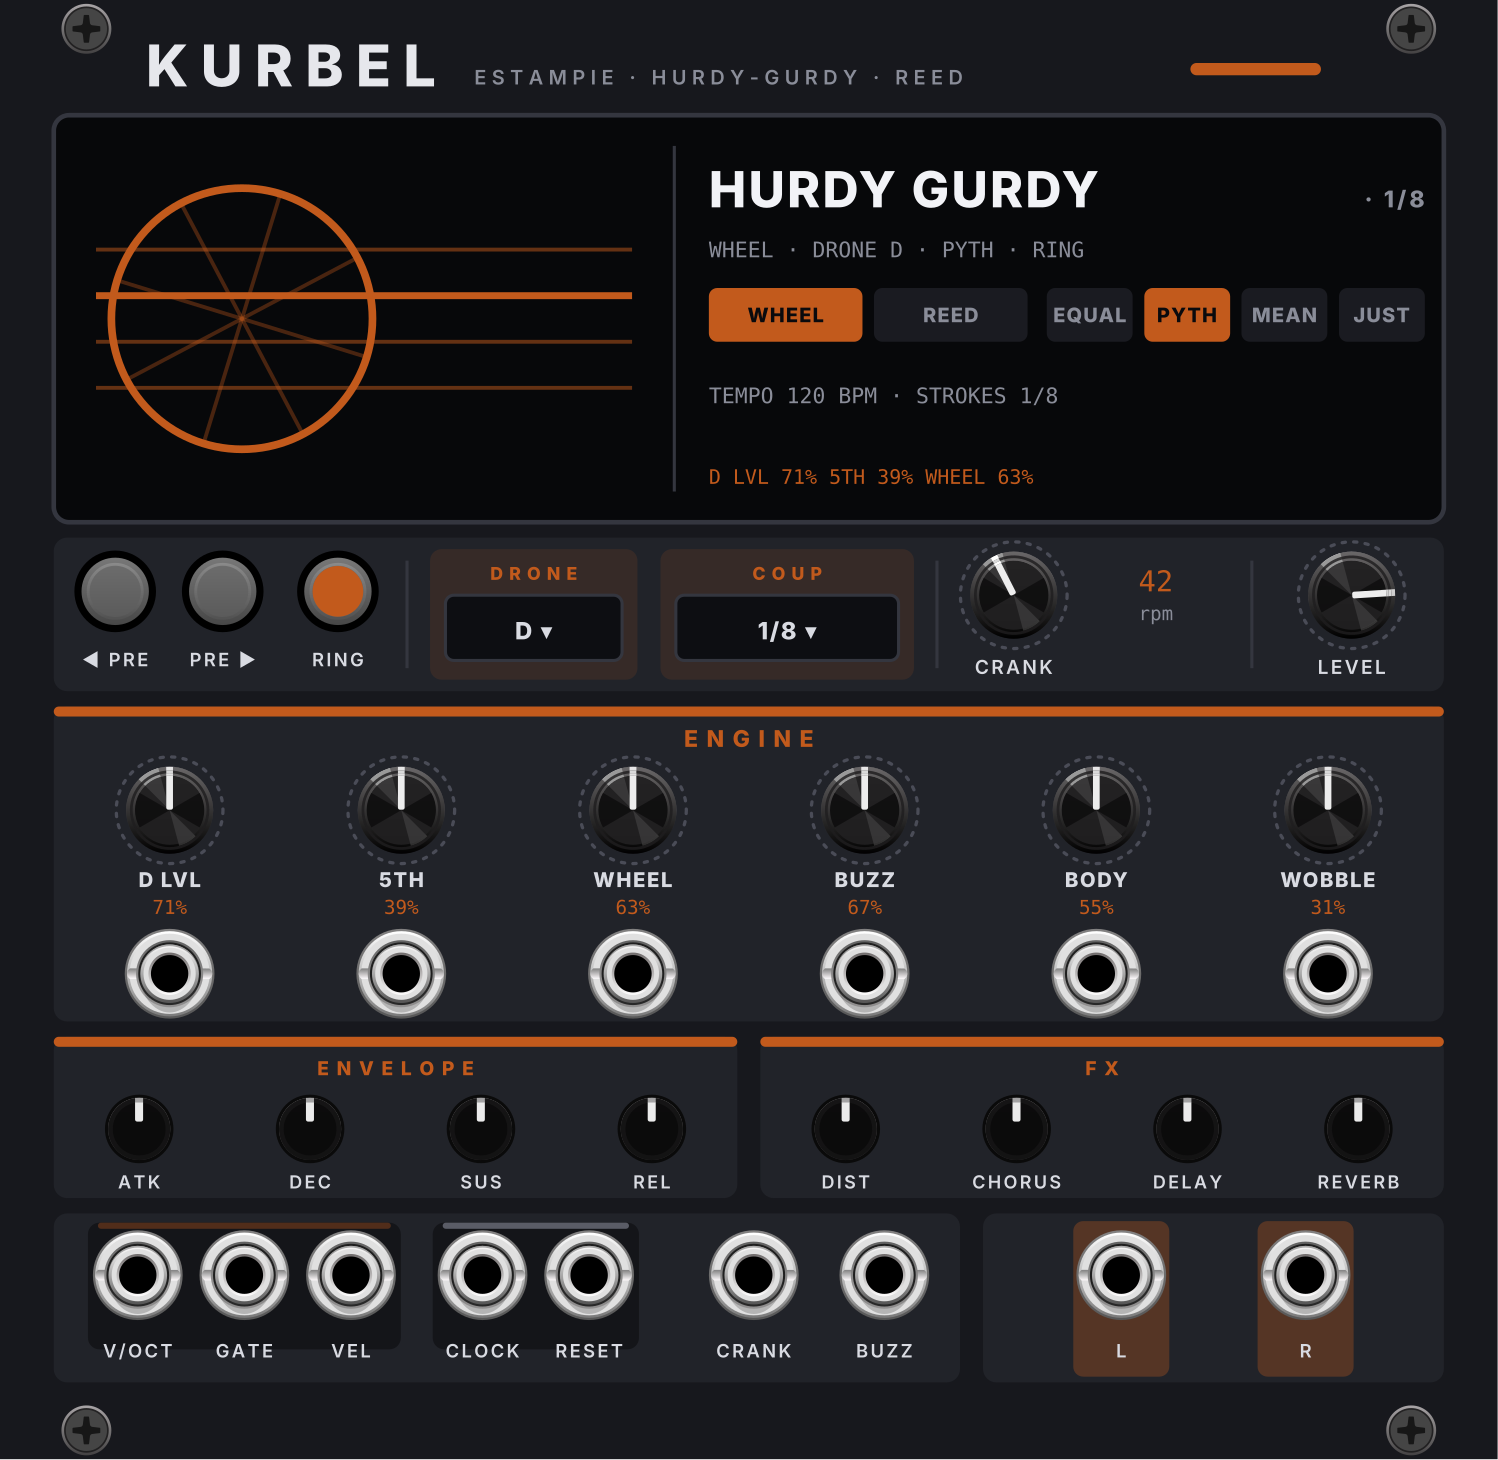
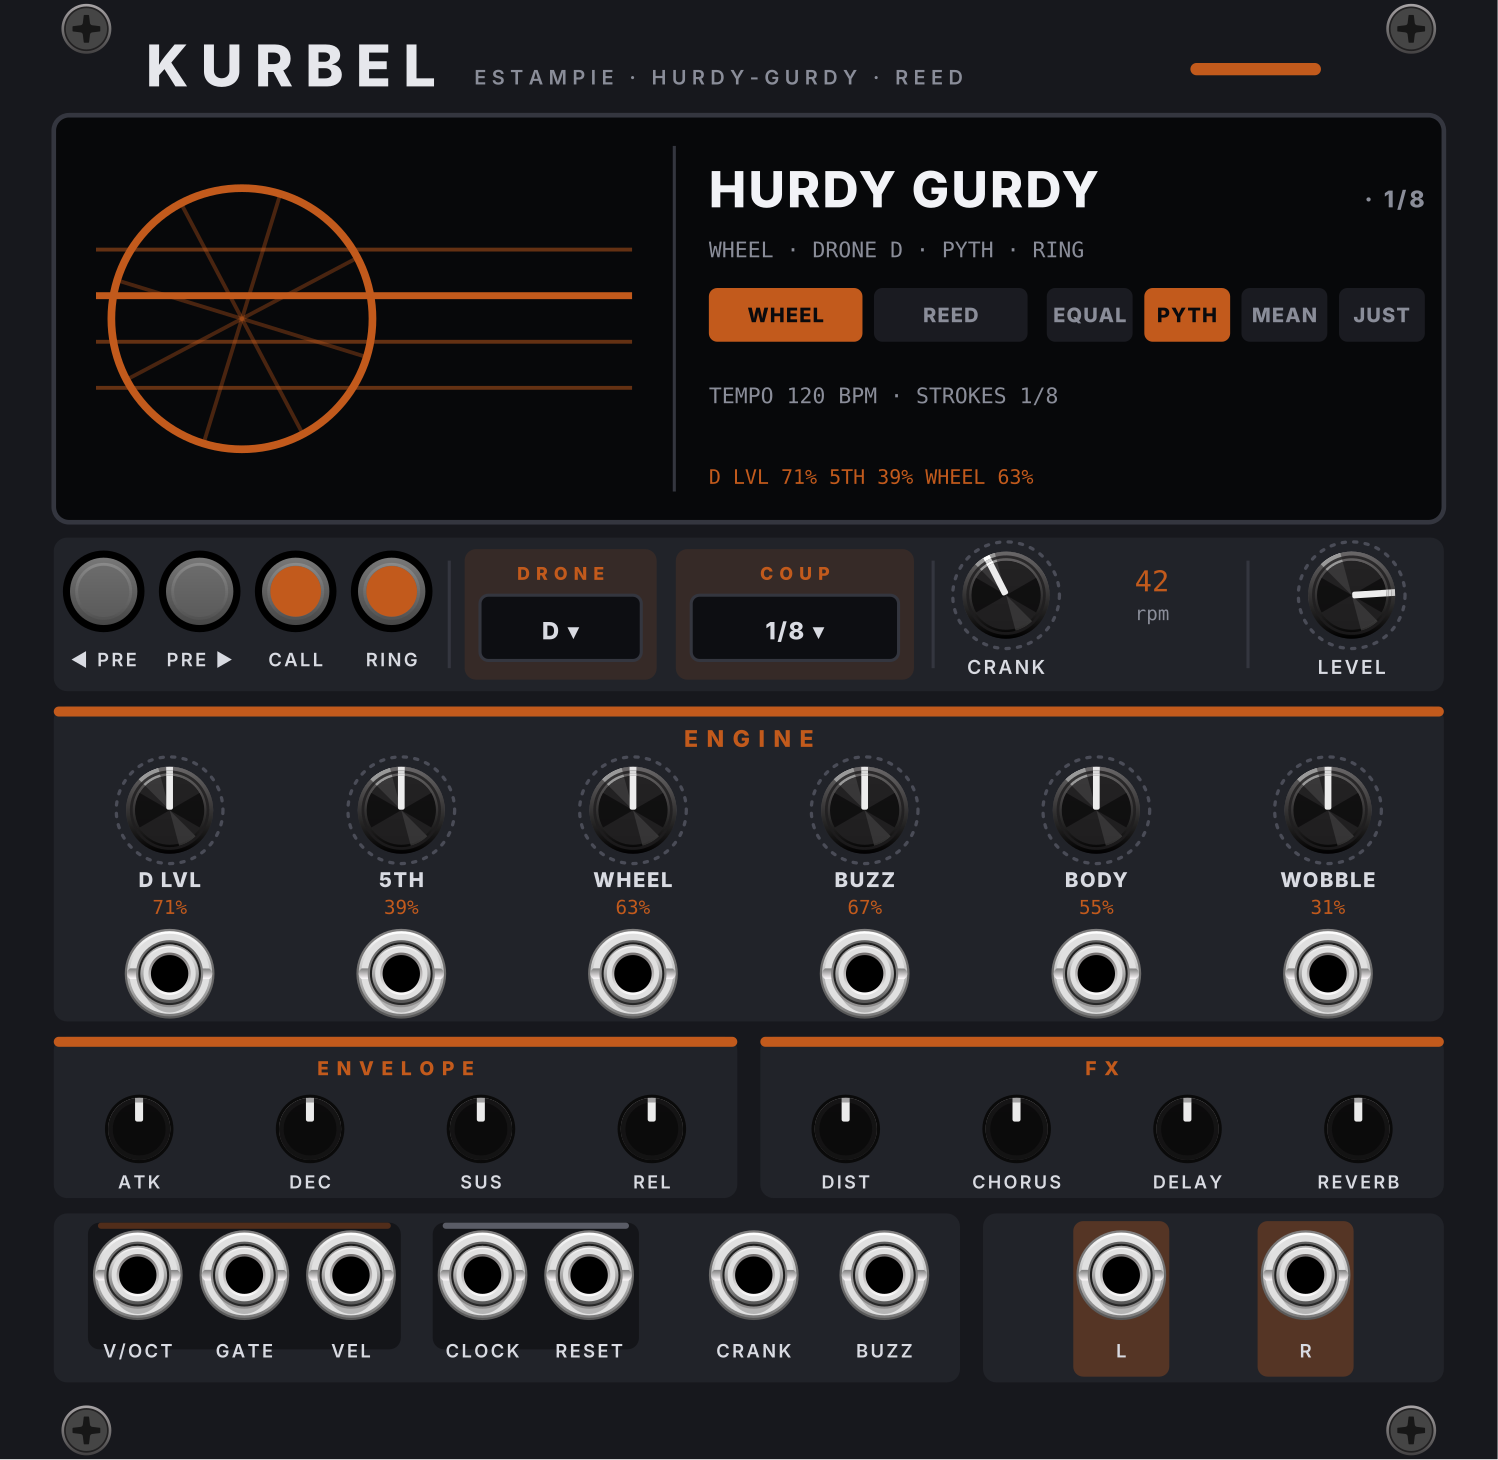
GENRA Test 2.2.1: KURBEL mit CALL, Kurbel ohne Gate standardmässig aus, Kurbel-Tempo
- CALL-Taster: spielt die Melodiesaite (V/OCT, ohne Kabel D4)
- Rechtsklick 'Crank plays without a gate' jetzt Standard aus
- 40 Klicks pro Umdrehung: 90 rpm = voller Bogendruck bei jedem WHL

Claude-Session: https://claude.ai/code/session_01ETAzGwBbFuDbGLy1yWbrpP

diff --git a/src/kurbel/Kurbel.cpp b/src/kurbel/Kurbel.cpp
@@ -25,7 +25,8 @@ static const char* COUP_NAMES[6] = {"HOLD", "1/4", "1/8", "1/8T", "1/16", "CRANK
 static const char* TEMP_NAMES[4] = {"EQUAL", "PYTH", "MEAN", "JUST"};
 static const char* CLOCK_MODES[4] = {"16ths (4 PPQN)", "8ths (2 PPQN)", "Quarters (1 PPQN)", "24 PPQN"};
 static const int CLOCK_PPQN[4] = {4, 2, 1, 24};
-static const float CLICKS_PER_REV = 20.f;                     // the FM-1's encoder: the crank's clicks per turn
+static const float CLICKS_PER_REV = 40.f;                     // the crank's clicks per turn: 90 rpm = 60 clicks/s, full
+                                                               // pressure at every WHL (GHOULBOX: full at 60 .. 12 clicks/s)
 static const float RPM_PER_VOLT = 24.f;                        // CRANK CV: 0..10 V = 0..240 rpm
 
 // ------------------------------------------------------------------------------------------------ the module
@@ -39,6 +40,7 @@ struct Kurbel : Module, follow::Host {
 		CRANK_PARAM,
 		RING_PARAM,
 		PREV_PARAM, NEXT_PARAM,
+		CALL_PARAM,
 		PARAMS_LEN
 	};
 	enum InputId {
@@ -47,8 +49,8 @@ struct Kurbel : Module, follow::Host {
 		INPUTS_LEN
 	};
 	enum OutputId { L_OUTPUT, R_OUTPUT, OUTPUTS_LEN };
-	enum LightId { RING_LIGHT, LIGHTS_LEN };
-	enum { BLOCK = 32 };
+	enum LightId { RING_LIGHT, CALL_LIGHT, LIGHTS_LEN };
+	enum { BLOCK = 32, CALL_NOTE = 62 };
 
 	KurbelCore core;
 	std::string status;
@@ -57,7 +59,7 @@ struct Kurbel : Module, follow::Host {
 	int preset = 0;
 	int wheelPreset = 0;                          // the last WHEEL sound (back to it from REED)
 	int clockMode = 0;
-	bool crankAlone = true;                       // COUP CRANK without a gate: turning the crank plays (drones + melody)
+	bool crankAlone = false;                      // (right-click, off by default) COUP CRANK without a gate: turning the crank plays (drones + melody)
 	bool fromPatch = false;
 	std::atomic<int> presetReq{-1};
 
@@ -78,7 +80,8 @@ struct Kurbel : Module, follow::Host {
 	jiant::Resampler src;
 	dsp::DoubleRingBuffer<dsp::Frame<2>, 2048> outBuf;
 	uint32_t framesSinceUi = 0;
-	bool gate = false;
+	bool gate = false;                            // a note sounds (the gate, CALL, or the crank alone)
+	bool gateIn = false;                          // the GATE input is high
 	int note = 60;
 	dsp::BooleanTrigger prevTrig, nextTrig;
 	dsp::SchmittTrigger clockTrig, resetTrig, buzzTrig;
@@ -117,6 +120,7 @@ struct Kurbel : Module, follow::Host {
 		configSwitch(RING_PARAM, 0.f, 1.f, 0.f, "Ring (the drones sound on through the rests)", {"Off", "On"});
 		configButton(PREV_PARAM, "Previous preset");
 		configButton(NEXT_PARAM, "Next preset");
+		configButton(CALL_PARAM, "Call (plays the melody string: V/OCT, or D4 without a cable)");
 		configInput(VOCT_INPUT, "V/Oct (the melody string)");
 		configInput(GATE_INPUT, "Gate");
 		configInput(VEL_INPUT, "Velocity (0..10 V)");
@@ -220,6 +224,7 @@ struct Kurbel : Module, follow::Host {
 	void onAdd(const AddEvent& e) override {
 		params[PREV_PARAM].setValue(0.f);
 		params[NEXT_PARAM].setValue(0.f);
+		params[CALL_PARAM].setValue(0.f);
 		powerOn();
 	}
 	void onRemove(const RemoveEvent& e) override { follow::gone(this); core.unload(); }
@@ -227,7 +232,7 @@ struct Kurbel : Module, follow::Host {
 		Module::onReset(e);
 		fromPatch = false;
 		clockMode = 0;
-		crankAlone = true;
+		crankAlone = false;
 		presetReq = 0;
 	}
 
@@ -316,23 +321,31 @@ struct Kurbel : Module, follow::Host {
 		lights[RING_LIGHT].setBrightness(params[RING_PARAM].getValue() > 0.5f ? 1.f : 0.f);
 	}
 
-	/** One melody string: the first channel of V/OCT and GATE; a new pitch under a held gate slides (legato). */
+	/** One melody string: the first channel of V/OCT and GATE, or CALL; a new pitch under a held note slides (legato).
+	 * "Crank plays without a gate" (right-click, COUP CRANK, WHEEL): without a gate the crank turning plays, as on a
+	 * hurdy-gurdy: the drones and the melody string, on the DRONE's note (C3 ..) or on V/OCT's. */
 	void processNotes(const jku_api* a) {
-		bool on = false;
+		bool on = false, keyed = false;
 		int nn = clamp((int) std::round(inputs[VOCT_INPUT].getVoltage() * 12.f) + 60, 0, 127);
 		if (inputs[GATE_INPUT].isConnected()) {
 			float g = inputs[GATE_INPUT].getVoltage();
-			on = gate ? g > 0.5f : g >= 1.f;
-		} else if (crankAlone && engineNow == JKU_WHEEL && params[COUP_PARAM].getValue() > 4.5f) {
-			// no gate: the crank turning plays, as on a hurdy-gurdy: the drones and the melody string, on the DRONE's
-			// note (C3 ..) or on V/OCT's
+			on = keyed = gateIn ? g > 0.5f : g >= 1.f;
+		}
+		gateIn = keyed;
+		bool call = params[CALL_PARAM].getValue() > 0.5f;
+		lights[CALL_LIGHT].setBrightness(call ? 1.f : 0.f);
+		if (!keyed && call) {
+			on = true;
+			if (!inputs[VOCT_INPUT].isConnected())
+				nn = CALL_NOTE;
+		} else if (!keyed && crankAlone && engineNow == JKU_WHEEL && params[COUP_PARAM].getValue() > 4.5f) {
 			on = rpmNow() >= (gate ? 3.f : 6.f);
 			if (!inputs[VOCT_INPUT].isConnected())
 				nn = 48 + clamp((int) std::round(params[DRONE_PARAM].getValue()), 0, 11);
 		}
 		if (on && !gate) {
 			int vel = 100;
-			if (inputs[VEL_INPUT].isConnected())
+			if (keyed && inputs[VEL_INPUT].isConnected())
 				vel = clamp((int) std::round(inputs[VEL_INPUT].getVoltage() / 10.f * 127.f), 1, 127);
 			a->note_on(nn, vel);
 			note = nn;
@@ -657,6 +670,8 @@ struct KurbelWidget : ModuleWidget {
 
 		addParam(createParamCentered<VCVBezel>(jiant::at(L::PREV), module, Kurbel::PREV_PARAM));
 		addParam(createParamCentered<VCVBezel>(jiant::at(L::NEXT), module, Kurbel::NEXT_PARAM));
+		addParam(createLightParamCentered<VCVLightBezel<jiant::AccentLight<KURBEL_RGB>>>(
+		    jiant::at(L::CALL), module, Kurbel::CALL_PARAM, Kurbel::CALL_LIGHT));
 		addParam(createLightParamCentered<VCVLightLatch<jiant::AccentLight<KURBEL_RGB>>>(
 		    jiant::at(L::RING), module, Kurbel::RING_PARAM, Kurbel::RING_LIGHT));
 		SelectField* drone = createParam<SelectField>(Vec(L::DRONE_SEL[0], L::DRONE_SEL[1]), module, Kurbel::DRONE_PARAM);

diff --git a/tools/kurbel_panel.py b/tools/kurbel_panel.py
@@ -16,20 +16,21 @@ def kurbel_panel():
     p = Panel("Kurbel", "KURBEL", 26, "ESTAMPIE · HURDY-GURDY · REED")
     p.display(14, 30, 362, 106)
     p.plate(14, 140, 362, 40)
-    p.button("PREV", 30, 154, "◀ PRE")
-    p.button("NEXT", 58, 154, "PRE ▶")
-    p.button("RING", 88, 154, "RING", light=True)
-    p.sep(106, 146, 174)
-    p.block(112, 143, 54, 34)
-    p.text(139, 151, "DRONE", 4.6, p.C, 800, "middle", 1.6)
-    p.area("DRONE_SEL", 116, 155, 46, 17)
-    p.block(172, 143, 66, 34)
-    p.text(205, 151, "COUP", 4.6, p.C, 800, "middle", 1.6)
-    p.area("COUP_SEL", 176, 155, 58, 17)
-    p.sep(244, 146, 174)
-    p.knob("CRANK", 264, 155, label="CRANK", ly=175.5, v=0.4)
-    p.area("CRANK_TEXT", 280, 147, 42, 16)
-    p.sep(326, 146, 174)
+    p.button("PREV", 27, 154, "◀ PRE")
+    p.button("NEXT", 52, 154, "PRE ▶")
+    p.button("CALL", 77, 154, "CALL", light=True)
+    p.button("RING", 102, 154, "RING", light=True)
+    p.sep(117, 146, 174)
+    p.block(121, 143, 50, 34)
+    p.text(146, 151, "DRONE", 4.6, p.C, 800, "middle", 1.6)
+    p.area("DRONE_SEL", 125, 155, 42, 17)
+    p.block(176, 143, 62, 34)
+    p.text(207, 151, "COUP", 4.6, p.C, 800, "middle", 1.6)
+    p.area("COUP_SEL", 180, 155, 54, 17)
+    p.sep(243, 146, 174)
+    p.knob("CRANK", 262, 155, label="CRANK", ly=175.5, v=0.4)
+    p.area("CRANK_TEXT", 279, 147, 42, 16)
+    p.sep(325, 146, 174)
     p.knob("LEVEL", 352, 155, label="LEVEL", ly=175.5, v=0.82)
     engine(p, 6)
     env_fx(p)

diff --git a/src/kurbel/KurbelLayout.hpp b/src/kurbel/KurbelLayout.hpp
@@ -6,13 +6,14 @@ namespace kurbel {
 static const float W = 390.f;
 static const float SCREEN[4] = {19.0f, 34.0f, 151.6f, 98.0f};
 static const float INFO[4] = {184.6f, 34.0f, 186.4f, 98.0f};
-static const float PREV[2] = {30.0f, 154.0f};
-static const float NEXT[2] = {58.0f, 154.0f};
-static const float RING[2] = {88.0f, 154.0f};
-static const float DRONE_SEL[4] = {116.0f, 155.0f, 46.0f, 17.0f};
-static const float COUP_SEL[4] = {176.0f, 155.0f, 58.0f, 17.0f};
-static const float CRANK[2] = {264.0f, 155.0f};
-static const float CRANK_TEXT[4] = {280.0f, 147.0f, 42.0f, 16.0f};
+static const float PREV[2] = {27.0f, 154.0f};
+static const float NEXT[2] = {52.0f, 154.0f};
+static const float CALL[2] = {77.0f, 154.0f};
+static const float RING[2] = {102.0f, 154.0f};
+static const float DRONE_SEL[4] = {125.0f, 155.0f, 42.0f, 17.0f};
+static const float COUP_SEL[4] = {180.0f, 155.0f, 54.0f, 17.0f};
+static const float CRANK[2] = {262.0f, 155.0f};
+static const float CRANK_TEXT[4] = {279.0f, 147.0f, 42.0f, 16.0f};
 static const float LEVEL[2] = {352.0f, 155.0f};
 static const float E[6][2] = {{44.2f, 211.0f}, {104.5f, 211.0f}, {164.8f, 211.0f}, {225.2f, 211.0f}, {285.5f, 211.0f}, {345.8f, 211.0f}};
 static const float E_TEXT[6][4] = {{14.0f, 224.5f, 60.3f, 15.0f}, {74.3f, 224.5f, 60.3f, 15.0f}, {134.7f, 224.5f, 60.3f, 15.0f}, {195.0f, 224.5f, 60.3f, 15.0f}, {255.3f, 224.5f, 60.3f, 15.0f}, {315.7f, 224.5f, 60.3f, 15.0f}};

diff --git a/README.md b/README.md
@@ -57,7 +57,7 @@ Tempo bzw. Kurbel. Die Chips wählen **WHEEL / REED** (Drehleier / Schalmei) und
 JUST** (gleichstufig, pythagoreisch, mitteltönig, rein; gezählt ab dem Bordun).
 
 **Kopf:**
-- **◀ PRE / PRE ▶**: 8 Werks-Klänge (Hurdy Gurdy, Drone Wheel, Dance Gurdy, Trompette, Vielle, Bagpipe, Trotto Gurdy,
+- **◀ PRE / PRE ▶ · CALL**: 8 Werks-Klänge (Hurdy Gurdy, Drone Wheel, Dance Gurdy, Trompette, Vielle, Bagpipe, Trotto Gurdy,
   Shawm). Auch per Rechtsklick › Preset.
 - **RING** (Taster mit Licht): die Bordun-Saiten klingen durch die Pausen weiter, wie bei einer echten Drehleier.
 - **DRONE**: Tonart der Bordun-Saiten (C bis B), zugleich Grundton der Stimmung.
@@ -76,9 +76,14 @@ für vollen Druck), **BUZZ** (Schnarren), **BODY**, **WOBL** (Unruhe des Rads). 
 **CLOCK · RESET** (Tempo der Stösse; RESET startet die Stösse eines gehaltenen Tons neu), **CRANK** (CV, zum Regler
 addiert: 1 V = 24 rpm), **BUZZ** (Trigger: ein Stoss, bei COUP CRANK), L/R. Ohne Kabel: Rechtsklick › Follow GENRA.
 
-**Kurbeln ohne Gate:** Kommt kein Gate an (kein Kabel, kein Follow) und COUP steht auf CRANK, spielt KURBEL von
-selbst, solange gekurbelt wird: Bordune und Melodiesaite auf dem DRONE-Ton (C3 …), mit V/OCT auf dessen Ton.
-Abschaltbar per Rechtsklick › *Crank plays without a gate*.
+**Kurbeln ohne Gate** (ab 2.2.1 Standard aus): Rechtsklick › *Crank plays without a gate* einschalten. Dann spielt
+KURBEL bei COUP CRANK ohne Gate von selbst, solange gekurbelt wird: Bordune und Melodiesaite auf dem DRONE-Ton (C3 …),
+mit V/OCT auf dessen Ton. Ein Gate spielt wie gewohnt die Note von V/OCT. Die Einstellung wird im Patch gespeichert.
+
+**CALL** (ab 2.2.1): spielt die Melodiesaite, solange gedrückt (auf V/OCT, ohne Kabel D4), zum schnellen Anspielen.
+
+**Kurbel-Tempo** (ab 2.2.1): 90 rpm (der Standard) geben bei jeder WHL-Einstellung vollen Bogendruck, darunter wird
+es leiser bis still; vorher brauchte es je nach WHL deutlich mehr.
 
 ## SWARM
 
